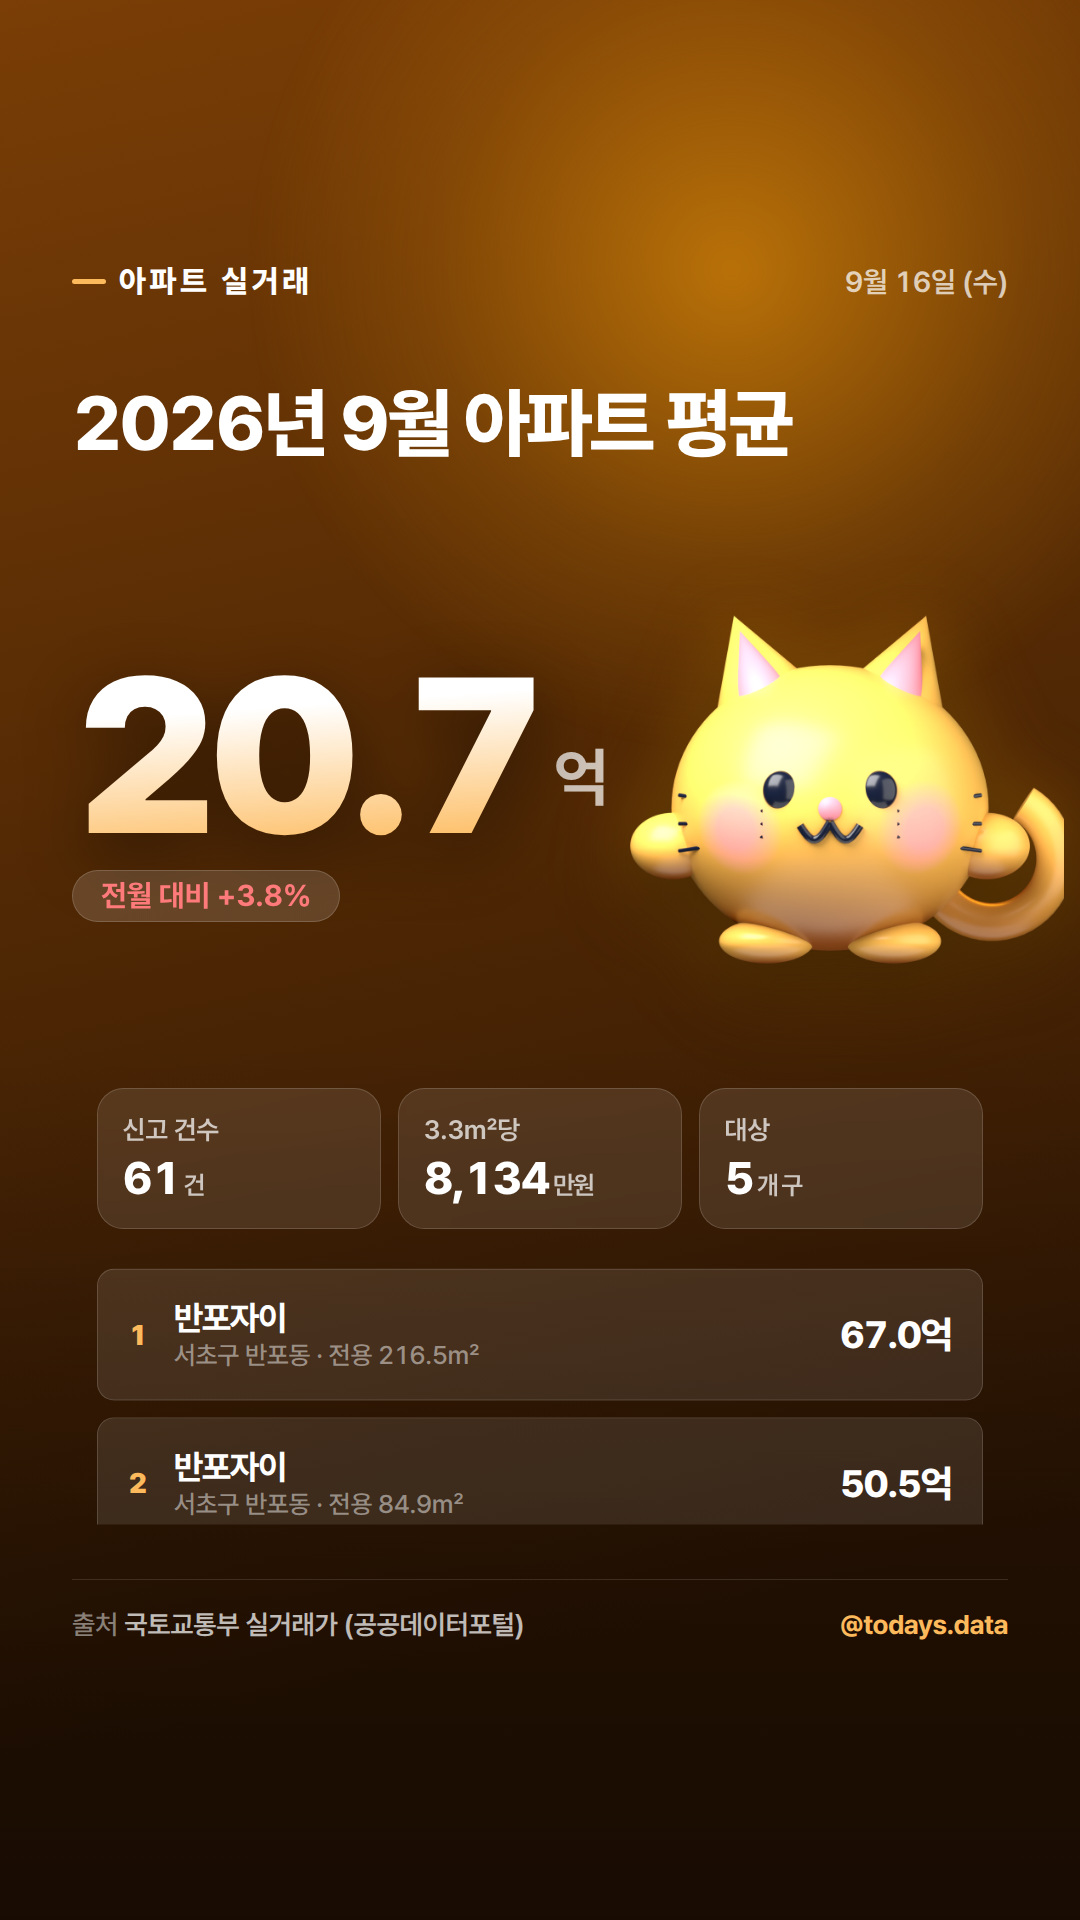
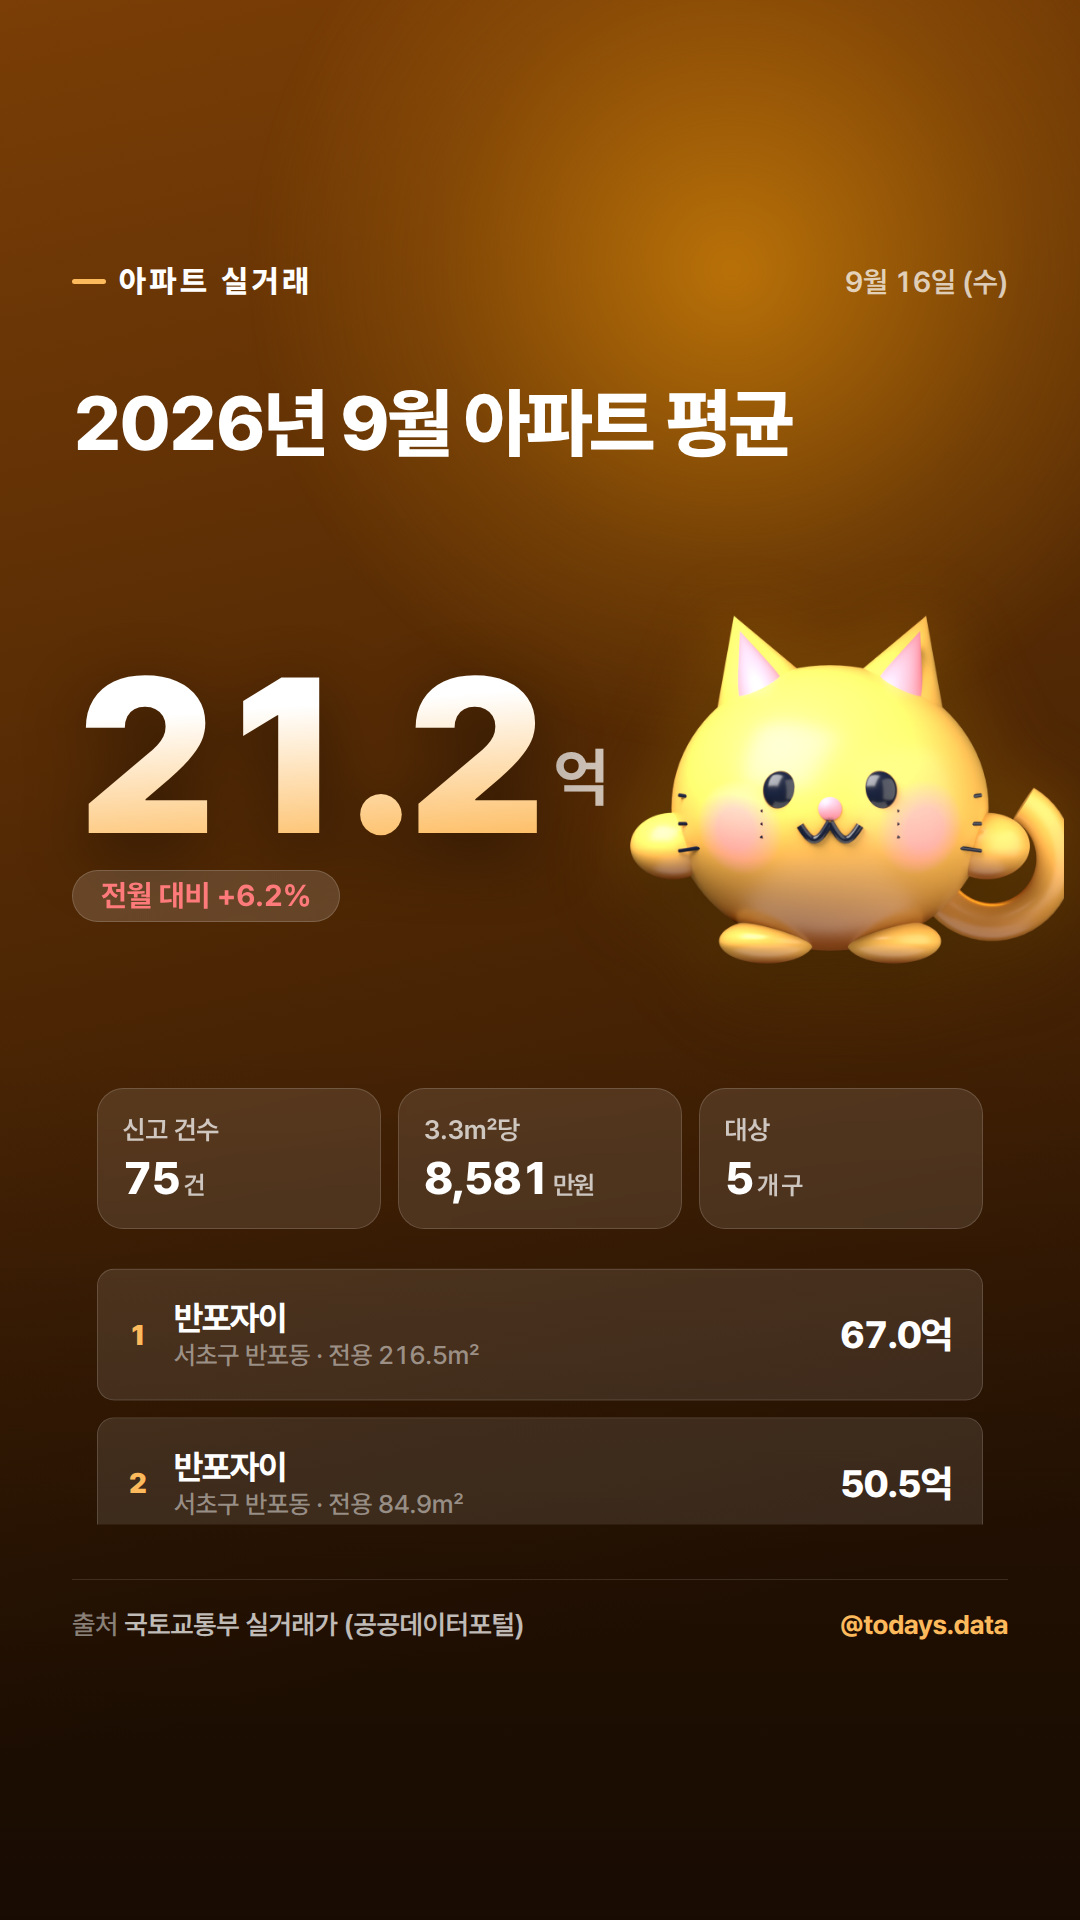
cards: 2026-09-16T03:19Z

diff --git a/index.html b/index.html
@@ -55,24 +55,7 @@
       <h2><span class="dot weather"></span>날씨</h2>
       <a href="cards/20260916-weather.jpg" target="_blank"><img src="cards/20260916-weather.jpg" alt="weather" loading="lazy"></a>
       <div class="cap">
-        <pre id="c-weather">☀ 서울 9월 16일 (수) 날씨
-
-서울은 맑음, 최고 28도 최저 20도입니다.
-강수확률은 최대 0%, 평균 습도는 47%예요.
-
-시간대별 기온
-· 10시 22° (강수 0%)
-· 13시 26° (강수 0%)
-· 16시 28° (강수 0%)
-· 19시 24° (강수 0%)
-· 22시 21° (강수 0%)
-· 1시 20° (강수 0%)
-
-매일 아침 공공데이터로 만든 날씨 카드를 올립니다.
-
-📊 출처 : 기상청 단기예보 조회서비스 / 공공데이터포털
-
-#오늘날씨 #날씨 #서울날씨 #날씨정보 #기상청 #공공데이터 #데이터시각화 #일상정보 #출근길 #날씨예보</pre>
+        <pre id="c-weather"></pre>
         <button type="button" data-for="c-weather">캡션 복사</button>
       </div>
       <a class="story" href="cards/20260916-weather-story.jpg" target="_blank">스토리 버전 (1080×1920) 열기</a>
@@ -81,22 +64,7 @@
       <h2><span class="dot air"></span>대기질</h2>
       <a href="cards/20260916-air.jpg" target="_blank"><img src="cards/20260916-air.jpg" alt="air" loading="lazy"></a>
       <div class="cap">
-        <pre id="c-air">😷 서울 대기질 (2026-09-16 10:00 기준)
-
-초미세먼지(PM2.5) 9㎍/㎥ — 좋음
-미세먼지(PM10) 23㎍/㎥ — 좋음
-통합대기환경지수 48 — 좋음
-
-오늘 수치가 높은 곳
-· 용산구 PM2.5 14㎍/㎥ (좋음)
-· 노원구 PM2.5 14㎍/㎥ (좋음)
-· 송파구 PM2.5 13㎍/㎥ (좋음)
-
-&#x27;나쁨&#x27; 이상이면 외출 시 마스크 챙기세요.
-
-📊 출처 : 한국환경공단 에어코리아 / 공공데이터포털
-
-#미세먼지 #초미세먼지 #대기질 #오늘미세먼지 #에어코리아 #공공데이터 #서울날씨 #생활정보 #마스크 #환경</pre>
+        <pre id="c-air"></pre>
         <button type="button" data-for="c-air">캡션 복사</button>
       </div>
       <a class="story" href="cards/20260916-air-story.jpg" target="_blank">스토리 버전 (1080×1920) 열기</a>
@@ -105,18 +73,7 @@
       <h2><span class="dot lifeindex"></span>생활지수</h2>
       <a href="cards/20260916-lifeindex.jpg" target="_blank"><img src="cards/20260916-lifeindex.jpg" alt="lifeindex" loading="lazy"></a>
       <div class="cap">
-        <pre id="c-lifeindex">🌤 서울 9월 16일 생활지수
-
-자외선는 6 (높음) 입니다.
-
-· 자외선 6 높음
-· 대기정체 50 보통
-
-09시 발표 기준이며 3시간 간격 예측값입니다.
-
-📊 출처 : 기상청 생활기상지수 조회서비스 / 공공데이터포털
-
-#생활기상지수 #자외선지수 #체감온도 #오늘날씨 #건강관리 #기상청 #공공데이터 #데이터시각화 #오늘의데이터</pre>
+        <pre id="c-lifeindex"></pre>
         <button type="button" data-for="c-lifeindex">캡션 복사</button>
       </div>
       <a class="story" href="cards/20260916-lifeindex-story.jpg" target="_blank">스토리 버전 (1080×1920) 열기</a>
@@ -143,7 +100,24 @@
       <h2><span class="dot realestate"></span>부동산</h2>
       <a href="cards/20260916-realestate.jpg" target="_blank"><img src="cards/20260916-realestate.jpg" alt="realestate" loading="lazy"></a>
       <div class="cap">
-        <pre id="c-realestate"></pre>
+        <pre id="c-realestate">🏢 2026년 9월 아파트 매매 실거래
+
+대상 : 강남구 · 서초구 · 송파구 · 마포구 · 영등포구
+신고 건수 75건
+평균 거래가 21.2억 (전월 대비 +6.2%)
+3.3㎡당 평균 8,581만원
+
+최고가 거래
+· 반포자이 67.0억 (서초구 반포동 전용 216.5㎡)
+· 반포자이 50.5억 (서초구 반포동 전용 84.9㎡)
+· 래미안퍼스티지 49.0억 (서초구 반포동 전용 84.9㎡)
+
+계약 해제된 거래는 집계에서 제외했습니다.
+실거래는 계약 후 30일 내 신고라 최근 월은 수치가 계속 갱신됩니다.
+
+📊 출처 : 국토교통부 아파트 매매 실거래가 상세자료 / 공공데이터포털
+
+#아파트실거래가 #부동산 #서울아파트 #실거래가 #부동산정보 #재테크 #공공데이터 #아파트시세 #내집마련 #부동산공부</pre>
         <button type="button" data-for="c-realestate">캡션 복사</button>
       </div>
       <a class="story" href="cards/20260916-realestate-story.jpg" target="_blank">스토리 버전 (1080×1920) 열기</a>
@@ -158,7 +132,7 @@
       <a class="story" href="cards/20260916-apply-story.jpg" target="_blank">스토리 버전 (1080×1920) 열기</a>
     </section>
 <details><summary>지난 카드 보기</summary><ul><li><a href="cards/20260915-weather.jpg">20260915-weather.jpg</a></li><li><a href="cards/20260915-exchange.jpg">20260915-exchange.jpg</a></li><li><a href="cards/20260915-boxoffice.jpg">20260915-boxoffice.jpg</a></li><li><a href="cards/20260915-air.jpg">20260915-air.jpg</a></li><li><a href="cards/20260914-weather.jpg">20260914-weather.jpg</a></li><li><a href="cards/20260914-realestate.jpg">20260914-realestate.jpg</a></li><li><a href="cards/20260914-air.jpg">20260914-air.jpg</a></li></ul></details>
-<footer>마지막 갱신 2026-09-16 10:26 KST · 출처 공공데이터포털</footer>
+<footer>마지막 갱신 2026-09-16 12:19 KST · 출처 공공데이터포털</footer>
 <script>
 document.querySelectorAll('button[data-for]').forEach(function (b) {
   b.addEventListener('click', function () {
